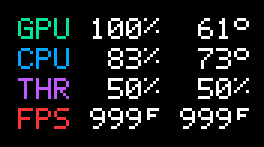
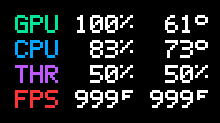
feat: Reduce hud size

diff --git a/src/hud_vertices.c b/src/hud_vertices.c
@@ -34,30 +34,29 @@ static const float *label_color(const char *text, unsigned int line,
     return colors[line];
 }
 
-static uint32_t pixel_size_for(uint32_t width, uint32_t height)
+static float scale_for(uint32_t width, uint32_t height)
 {
-    uint64_t width_size, height_size;
-    uint32_t size, fit_width, fit_height, fit;
+    float width_scale, height_scale, scale, fit_width, fit_height, fit;
 
-    if (!width || !height) return 0;
-    /* Round the limiting axis to the nearest whole font pixel.  Integer
-     * geometry keeps the 5x7 bitmap font sharp at every selected size. */
-    width_size = ((uint64_t)width * FRAME_PACER_HUD_REFERENCE_PIXEL_SIZE +
-                  FRAME_PACER_HUD_REFERENCE_VIEWPORT_WIDTH / 2U) /
-                 FRAME_PACER_HUD_REFERENCE_VIEWPORT_WIDTH;
-    height_size = ((uint64_t)height * FRAME_PACER_HUD_REFERENCE_PIXEL_SIZE +
-                   FRAME_PACER_HUD_REFERENCE_VIEWPORT_HEIGHT / 2U) /
-                  FRAME_PACER_HUD_REFERENCE_VIEWPORT_HEIGHT;
-    size = (uint32_t)(width_size < height_size ? width_size : height_size);
-    if (!size) size = 1;
+    if (!width || !height) return 0.0f;
+    width_scale = (float)width *
+        (float)FRAME_PACER_HUD_REFERENCE_SCALE_NUMERATOR /
+        ((float)FRAME_PACER_HUD_REFERENCE_VIEWPORT_WIDTH *
+         (float)FRAME_PACER_HUD_REFERENCE_SCALE_DENOMINATOR);
+    height_scale = (float)height *
+        (float)FRAME_PACER_HUD_REFERENCE_SCALE_NUMERATOR /
+        ((float)FRAME_PACER_HUD_REFERENCE_VIEWPORT_HEIGHT *
+         (float)FRAME_PACER_HUD_REFERENCE_SCALE_DENOMINATOR);
+    scale = width_scale < height_scale ? width_scale : height_scale;
+    if (scale < 1.0f) scale = 1.0f;
 
     /* Even unusual tiny drawables must never receive geometry outside their
      * bounds.  Account for the optional fourth row so toggling it cannot
      * silently overflow or change the selected scale. */
-    fit_width = width / FRAME_PACER_HUD_WIDTH_UNITS;
-    fit_height = height / FRAME_PACER_HUD_HEIGHT_UNITS;
+    fit_width = (float)width / (float)FRAME_PACER_HUD_WIDTH_UNITS;
+    fit_height = (float)height / (float)FRAME_PACER_HUD_HEIGHT_UNITS;
     fit = fit_width < fit_height ? fit_width : fit_height;
-    return size < fit ? size : fit;
+    return scale < fit ? scale : fit;
 }
 
 bool frame_pacer_hud_vertices_build_for_extent(
@@ -74,14 +73,14 @@ bool frame_pacer_hud_vertices_build_for_extent(
         {0.75f, 0.35f, 1.0f, 1.0f},
         {1.0f, 0.2f, 0.2f, 1.0f},
     };
-    uint32_t pixel_size;
+    float scale;
     unsigned int line, longest = 0;
 
     if (!vertices || !text)
         return false;
     vertices->count = 0;
-    pixel_size = pixel_size_for(drawable_width, drawable_height);
-    if (!pixel_size) return false;
+    scale = scale_for(drawable_width, drawable_height);
+    if (scale <= 0.0f) return false;
     if (text->line_count < 3 || text->line_count > FRAME_PACER_HUD_LINE_COUNT_MAX)
         return false;
     for (line = 0; line < text->line_count; ++line) {
@@ -95,14 +94,13 @@ bool frame_pacer_hud_vertices_build_for_extent(
     }
     /* The background follows the actual row count and widest rendered metric. */
     add_quad(vertices, 0.0f, 0.0f,
-             (float)(pixel_size *
-                     (FRAME_PACER_HUD_TEXT_X_UNITS +
-                      longest * FRAME_PACER_HUD_CHARACTER_ADVANCE_UNITS +
-                      FRAME_PACER_HUD_PANEL_RIGHT_PADDING_UNITS)),
-             (float)(pixel_size *
-                     (FRAME_PACER_HUD_TEXT_Y_UNITS +
-                      text->line_count * FRAME_PACER_HUD_LINE_ADVANCE_UNITS +
-                      FRAME_PACER_HUD_PANEL_BOTTOM_PADDING_UNITS)), panel_color);
+             scale * (float)(FRAME_PACER_HUD_TEXT_X_UNITS +
+                             longest * FRAME_PACER_HUD_CHARACTER_ADVANCE_UNITS +
+                             FRAME_PACER_HUD_PANEL_RIGHT_PADDING_UNITS),
+             scale * (float)(FRAME_PACER_HUD_TEXT_Y_UNITS +
+                             text->line_count * FRAME_PACER_HUD_LINE_ADVANCE_UNITS +
+                             FRAME_PACER_HUD_PANEL_BOTTOM_PADDING_UNITS),
+             panel_color);
     for (line = 0; line < text->line_count; ++line) {
         unsigned int character;
 
@@ -127,15 +125,14 @@ bool frame_pacer_hud_vertices_build_for_extent(
                             vertices->count = 0;
                             return false;
                         }
-                        pixel_x = (float)(pixel_size *
-                            (FRAME_PACER_HUD_TEXT_X_UNITS +
-                             character * FRAME_PACER_HUD_CHARACTER_ADVANCE_UNITS +
-                             x));
-                        pixel_y = (float)(pixel_size *
-                            (FRAME_PACER_HUD_TEXT_Y_UNITS +
-                             line * FRAME_PACER_HUD_LINE_ADVANCE_UNITS + y));
+                        pixel_x = scale * (float)(
+                            FRAME_PACER_HUD_TEXT_X_UNITS +
+                            character * FRAME_PACER_HUD_CHARACTER_ADVANCE_UNITS + x);
+                        pixel_y = scale * (float)(
+                            FRAME_PACER_HUD_TEXT_Y_UNITS +
+                            line * FRAME_PACER_HUD_LINE_ADVANCE_UNITS + y);
                         add_quad(vertices, pixel_x, pixel_y,
-                                 (float)pixel_size, (float)pixel_size, color);
+                                 scale, scale, color);
                     }
                 }
             }

diff --git a/tests/test_hud_vertices.c b/tests/test_hud_vertices.c
@@ -29,9 +29,9 @@ int main(void)
         &vertices, &text, FRAME_PACER_HUD_REFERENCE_VIEWPORT_WIDTH,
         FRAME_PACER_HUD_REFERENCE_VIEWPORT_HEIGHT));
     assert(vertices.count && vertices.count % 6 == 0);
-    assert_panel(&vertices, 264.0f, 117.0f);
-    assert(vertices.data[6].position[0] == 21.0f);
-    assert(vertices.data[6].position[1] == 18.0f);
+    assert_panel(&vertices, 220.0f, 97.5f);
+    assert(vertices.data[6].position[0] == 17.5f);
+    assert(vertices.data[6].position[1] == 15.0f);
     /* GPU label is teal, values begin white after the label and its space. */
     assert(near(vertices.data[0].color[3], 0.30f));
     assert(near(vertices.data[6].color[1], 0.9f));
@@ -53,22 +53,24 @@ int main(void)
      * Rebuilding the same text proves a live drawable resize changes only
      * geometry, not content or the crisp integer-pixel grid. */
     assert(frame_pacer_hud_vertices_build_for_extent(&vertices, &text, 1920, 1200));
-    assert_panel(&vertices, 176.0f, 78.0f);
-    assert(vertices.data[6].position[0] == 14.0f);
-    assert(vertices.data[6].position[1] == 12.0f);
+    assert_panel(&vertices, 165.0f, 73.125f);
+    assert(vertices.data[6].position[0] == 13.125f);
+    assert(vertices.data[6].position[1] == 11.25f);
     assert(frame_pacer_hud_vertices_build_for_extent(&vertices, &text, 2560, 1600));
-    assert_panel(&vertices, 264.0f, 117.0f);
+    assert_panel(&vertices, 220.0f, 97.5f);
 
-    /* Scaling uses the limiting axis and rounds to a whole font pixel. */
+    /* Scaling uses the limiting axis and remains proportional. */
     assert(frame_pacer_hud_vertices_build_for_extent(&vertices, &text, 3840, 2400));
-    assert_panel(&vertices, 440.0f, 195.0f);
+    assert_panel(&vertices, 330.0f, 146.25f);
     assert(frame_pacer_hud_vertices_build_for_extent(&vertices, &text, 3440, 1440));
-    assert_panel(&vertices, 264.0f, 117.0f);
+    assert_panel(&vertices, 198.0f, 87.75f);
     assert(frame_pacer_hud_vertices_build_for_extent(&vertices, &text, 3840, 1200));
-    assert_panel(&vertices, 176.0f, 78.0f);
+    assert_panel(&vertices, 165.0f, 73.125f);
     assert(frame_pacer_hud_vertices_build_for_extent(&vertices, &text, 640, 400));
     assert_panel(&vertices, 88.0f, 39.0f);
-    assert(!frame_pacer_hud_vertices_build_for_extent(&vertices, &text, 87, 400));
+    assert(frame_pacer_hud_vertices_build_for_extent(&vertices, &text, 87, 400));
+    assert(near(vertices.data[1].position[0], 87.0f));
+    assert(vertices.data[2].position[1] < 400.0f);
     assert(!frame_pacer_hud_vertices_build_for_extent(&vertices, &text, 640, 0));
 
     (void)snprintf(text.lines[2], sizeof(text.lines[2]), "THR 10000%%");
@@ -77,9 +79,9 @@ int main(void)
     text.line_count = 4;
     assert(frame_pacer_hud_vertices_build_for_extent(&vertices, &text, 2560, 1600));
     assert_panel(&vertices, (float)FRAME_PACER_HUD_REFERENCE_WIDTH,
-                 (float)FRAME_PACER_HUD_REFERENCE_HEIGHT);
+                 122.5f);
     assert(frame_pacer_hud_vertices_build_for_extent(&vertices, &text, 1920, 1200));
-    assert_panel(&vertices, 176.0f, 98.0f);
+    assert_panel(&vertices, 165.0f, 91.875f);
     /* The optional THR label has its own purple, matching the HUD palette. */
     {
         unsigned int i;

diff --git a/src/hud_vertices.h b/src/hud_vertices.h
@@ -9,7 +9,8 @@
 
 #define FRAME_PACER_HUD_REFERENCE_VIEWPORT_WIDTH 2560U
 #define FRAME_PACER_HUD_REFERENCE_VIEWPORT_HEIGHT 1600U
-#define FRAME_PACER_HUD_REFERENCE_PIXEL_SIZE 3U
+#define FRAME_PACER_HUD_REFERENCE_SCALE_NUMERATOR 5U
+#define FRAME_PACER_HUD_REFERENCE_SCALE_DENOMINATOR 2U
 #define FRAME_PACER_HUD_CHARACTER_ADVANCE_UNITS 6U
 #define FRAME_PACER_HUD_LINE_ADVANCE_UNITS 10U
 #define FRAME_PACER_HUD_TEXT_X_UNITS 6U
@@ -27,9 +28,15 @@
          FRAME_PACER_HUD_LINE_ADVANCE_UNITS +                          \
      FRAME_PACER_HUD_PANEL_BOTTOM_PADDING_UNITS)
 #define FRAME_PACER_HUD_REFERENCE_WIDTH                                 \
-    (FRAME_PACER_HUD_WIDTH_UNITS * FRAME_PACER_HUD_REFERENCE_PIXEL_SIZE)
+    ((FRAME_PACER_HUD_WIDTH_UNITS *                                    \
+      FRAME_PACER_HUD_REFERENCE_SCALE_NUMERATOR +                      \
+      FRAME_PACER_HUD_REFERENCE_SCALE_DENOMINATOR - 1U) /              \
+     FRAME_PACER_HUD_REFERENCE_SCALE_DENOMINATOR)
 #define FRAME_PACER_HUD_REFERENCE_HEIGHT                                \
-    (FRAME_PACER_HUD_HEIGHT_UNITS * FRAME_PACER_HUD_REFERENCE_PIXEL_SIZE)
+    ((FRAME_PACER_HUD_HEIGHT_UNITS *                                   \
+      FRAME_PACER_HUD_REFERENCE_SCALE_NUMERATOR +                      \
+      FRAME_PACER_HUD_REFERENCE_SCALE_DENOMINATOR - 1U) /              \
+     FRAME_PACER_HUD_REFERENCE_SCALE_DENOMINATOR)
 #define FRAME_PACER_HUD_MAX_VERTICES                                      \
     (6U * (1U + FRAME_PACER_HUD_LINE_COUNT_MAX *                          \
                  FRAME_PACER_HUD_LINE_CHARACTERS_MAX *                    \
@@ -56,8 +63,8 @@ bool frame_pacer_hud_vertices_build(struct frame_pacer_hud_vertices *,
 #define FRAME_PACER_HUD_VERTICES_INTERNAL
 #endif
 
-/* The presentation backends supply their current extent so the nearest crisp
- * integer scale can be selected relative to the 2560x1600 reference. */
+/* The presentation backends supply their current extent so a proportional
+ * scale can be selected relative to the 2560x1600 reference. */
 FRAME_PACER_HUD_VERTICES_INTERNAL bool
 frame_pacer_hud_vertices_build_for_extent(
     struct frame_pacer_hud_vertices *, const struct frame_pacer_hud_text *,

diff --git a/tests/gl_swap_provider.c b/tests/gl_swap_provider.c
@@ -14,8 +14,8 @@ unsigned int frame_pacer_test_egl_calls(void);
 void frame_pacer_test_set_egl_context(GLboolean);
 void frame_pacer_test_set_context(uintptr_t, GLboolean);
 unsigned int frame_pacer_test_gl_vertices(void);
-unsigned int frame_pacer_test_hud_width(void);
-unsigned int frame_pacer_test_hud_height(void);
+float frame_pacer_test_hud_width(void);
+float frame_pacer_test_hud_height(void);
 void frame_pacer_test_set_drawable_size(unsigned int, unsigned int);
 unsigned int frame_pacer_test_gl_programs(void);
 unsigned int frame_pacer_test_glx_destroy_calls(void);
@@ -26,7 +26,7 @@ unsigned int frame_pacer_test_gl_state_preserved(void);
 
 static unsigned int glx_calls, egl_calls, vertices, programs;
 static unsigned int drawable_width = 1920, drawable_height = 1200;
-static unsigned int hud_width, hud_height;
+static float hud_width, hud_height;
 static unsigned int glx_destroy_calls, egl_destroy_calls, egl_terminate_calls;
 static GLboolean native_vertex_shader;
 static GLboolean egl_context_active;
@@ -134,8 +134,8 @@ void frame_pacer_test_set_context(uintptr_t context, GLboolean egl)
     egl_context_active = egl;
 }
 unsigned int frame_pacer_test_gl_vertices(void) { return vertices; }
-unsigned int frame_pacer_test_hud_width(void) { return hud_width; }
-unsigned int frame_pacer_test_hud_height(void) { return hud_height; }
+float frame_pacer_test_hud_width(void) { return hud_width; }
+float frame_pacer_test_hud_height(void) { return hud_height; }
 void frame_pacer_test_set_drawable_size(unsigned int width, unsigned int height)
 {
     drawable_width = width;
@@ -254,8 +254,8 @@ void glBufferData(GLenum target, GLsizeiptr size, const void *data, GLenum usage
     (void)usage;
     /* Six vertices with six floats each comprise the leading panel quad. */
     if (values && size >= (GLsizeiptr)(36 * sizeof(*values))) {
-        hud_width = (unsigned int)values[6];
-        hud_height = (unsigned int)values[13];
+        hud_width = values[6];
+        hud_height = values[13];
     }
 }
 void glEnableVertexAttribArray(GLuint index) { (void)index; }

diff --git a/tests/test_gl_pacer.c b/tests/test_gl_pacer.c
@@ -24,8 +24,8 @@ int main(void)
     EGLBoolean (*egl_destroy)(EGLDisplay, EGLContext);
     EGLBoolean (*egl_terminate)(EGLDisplay);
     unsigned int (*gl_vertices)(void);
-    unsigned int (*hud_width)(void);
-    unsigned int (*hud_height)(void);
+    float (*hud_width)(void);
+    float (*hud_height)(void);
     void (*set_drawable_size)(unsigned int, unsigned int);
     unsigned int (*gl_programs)(void);
     unsigned int (*gl_state_preserved)(void);
@@ -110,7 +110,7 @@ int main(void)
     symbol = dlsym(provider, "frame_pacer_test_set_drawable_size");
     assert(symbol);
     memcpy(&set_drawable_size, &symbol, sizeof(set_drawable_size));
-    assert(hud_width() == 176 && hud_height() == 78);
+    assert(hud_width() == 165.0f && hud_height() == 73.125f);
 
     /* Alternating back to a live context reuses its private HUD resources. */
     set_context(1, GL_FALSE);
@@ -123,7 +123,7 @@ int main(void)
     /* GLX drawable resizing rebuilds the HUD at the new automatic scale. */
     set_drawable_size(2560, 1600);
     glx_swap((Display *)1, 0);
-    assert(hud_width() == 264 && hud_height() == 117);
+    assert(hud_width() == 220.0f && hud_height() == 97.5f);
 
     /* Destroyed handles and terminated EGL displays must never retain stale
      * object names when a provider later reuses the same opaque value. */

diff --git a/tests/render_hud_image.c b/tests/render_hud_image.c
@@ -235,6 +235,8 @@ int main(int argc, char **argv)
         uint32_t y1 = (uint32_t)quad[2].position[1];
         uint32_t y, x;
 
+        if ((float)x1 < quad[2].position[0]) ++x1;
+        if ((float)y1 < quad[2].position[1]) ++y1;
         if (x1 > width || y1 > height || x0 > x1 || y0 > y1) return 1;
         for (y = y0; y < y1; ++y)
             for (x = x0; x < x1; ++x) {

diff --git a/docs/hud.md b/docs/hud.md
@@ -6,22 +6,22 @@ automatically from the current Vulkan swapchain or GLX/EGL drawable extent;
 it does not query the window system, desktop environment, monitor, or physical
 DPI.
 
-The 2560 by 1600 reference resolution uses three screen pixels for each
-bitmap-font pixel. At that size, the complete panel is 264 by 147 pixels with
-the optional fourth row and the usual three-row panel is 264 by 117 pixels. A
-1920 by 1200 drawable selects two screen pixels per font pixel, making those
-panels 176 by 98 and 176 by 78 pixels respectively. Every value occupies four
-glyph cells, including the supported maximum of 999 FPS.
+The 2560 by 1600 reference resolution uses 2.5 screen pixels for each
+bitmap-font pixel. At that size, the complete panel is approximately 220 by
+123 pixels with the optional fourth row and the usual three-row panel is 220
+by 98 pixels. A 1920 by 1200 drawable uses a 1.875-pixel scale, making those
+panels approximately 165 by 92 and 165 by 73 pixels respectively. Every value
+occupies four glyph cells, including the supported maximum of 999 FPS.
 
-Scaling uses whichever drawable axis is more constrained and rounds to the
-nearest whole font-pixel size. This keeps the pixel font sharp, prevents an
-ultrawide or tall aspect ratio from enlarging the HUD based on only one axis,
-and updates naturally when a drawable or swapchain is recreated at a new
-resolution. Extremely small drawables are additionally constrained so the
-complete optional panel cannot extend outside their bounds. Because rendering
-APIs do not expose physical DPI portably, the policy preserves proportional
-screen footprint rather than an exact physical measurement across unrelated
-monitors.
+Scaling uses whichever drawable axis is more constrained. Its continuous
+scale avoids the large size jump that would occur between one- and two-pixel
+font steps at lower resolutions, prevents an ultrawide or tall aspect ratio
+from enlarging the HUD based on only one axis, and updates naturally when a
+drawable or swapchain is recreated at a new resolution. Extremely small
+drawables are additionally constrained so the complete optional panel cannot
+extend outside their bounds. Because rendering APIs do not expose physical DPI
+portably, the policy preserves proportional screen footprint rather than an
+exact physical measurement across unrelated monitors.
 
 Set `hud = off` at the top level of `frame-pacer.conf` to disable it without
 disabling frame pacing. `hud = on` is the default; valid changes are applied

diff --git a/docs/development.md b/docs/development.md
@@ -31,7 +31,7 @@ Additional gates are intentionally separate:
 | `make run-thread-cpu-quota-controller-integration` | Opt-in live 50%→75%→off→60%→off quota reuse and cleanup test. |
 | `make run-thread-cpu-quota-controller-integration-i386` | The same live reuse/handoff driven by the i386 client, plus test-only active cgroup-write failure, recovery, and controller interruption. |
 | `make run-nvml-helper-probe` | Exercise the production i386 client and anonymous x86_64 telemetry helper against the host NVIDIA driver and Steam Linux Runtime, when available. |
-| `make docs-hud-image` | Regenerate the README's 264x147 reference-size maximum-state HUD image from the production text, font, and vertex code. |
+| `make docs-hud-image` | Regenerate the README's 220x123 reference-size maximum-state HUD image from the production text, font, and vertex code. |
 
 The coverage and cgroup targets can change the calling process's transient
 user-scope topology. Run them only in a suitable delegated systemd user
